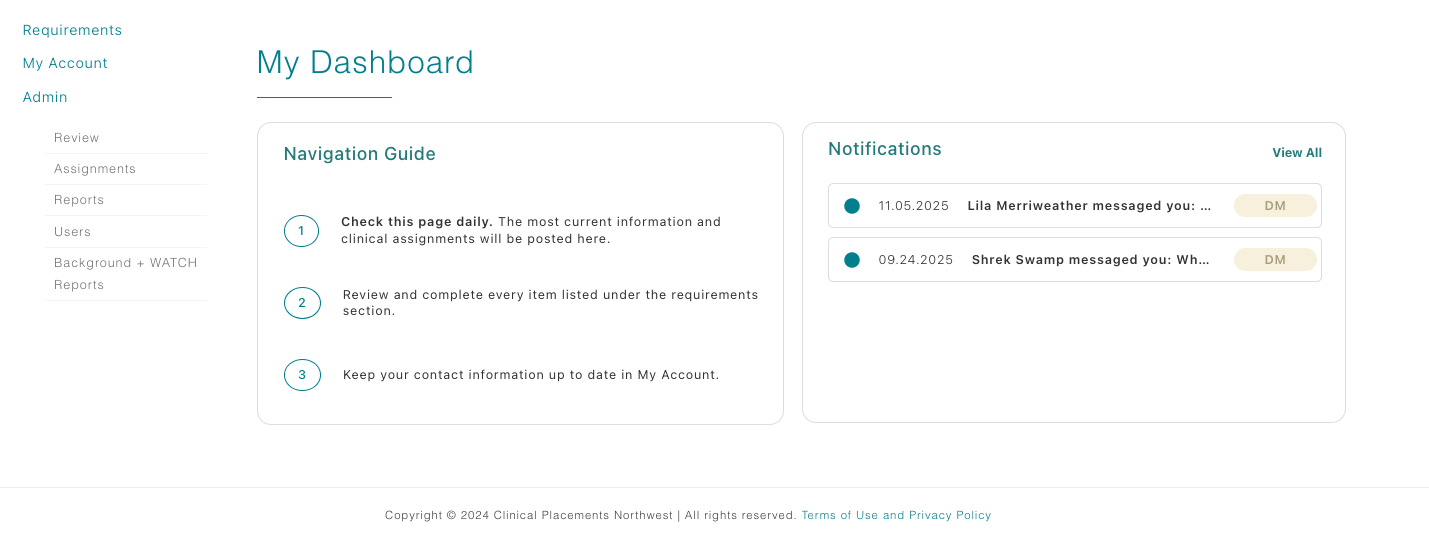
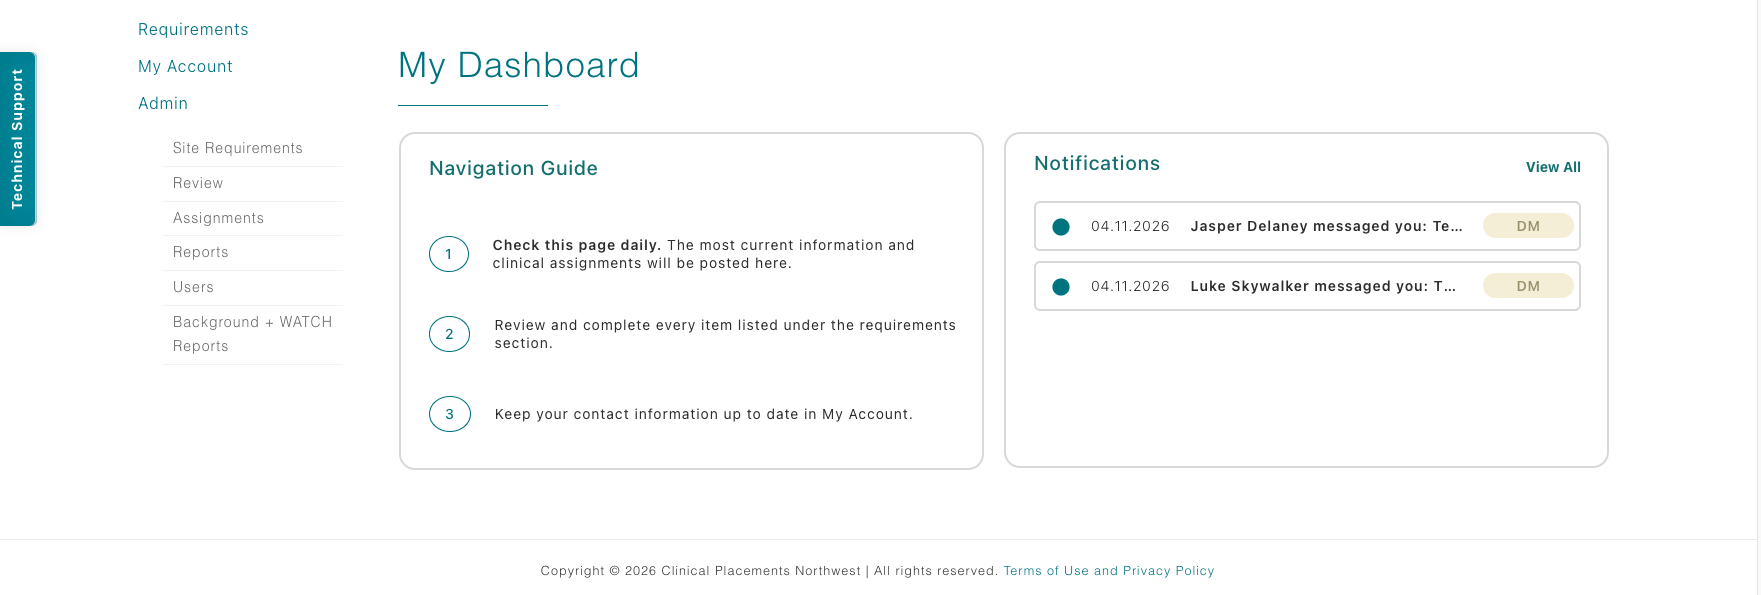
Add site requirements to education dashboard

diff --git a/views/education-views/education-articles/educational-dashboard.html b/views/education-views/education-articles/educational-dashboard.html
@@ -164,6 +164,16 @@
             </p>
             <ul class="text-muted ps-3 mb-0">
               <li>
+                <strong>Site Requirements</strong> – Access important site
+                information, documents, and links carried over from the legacy
+                site. This page is available for Educational Coordinators in
+                case there is site-specific information they need to review.
+                Some student requirements still appear there from the legacy
+                site, but those are not relevant on the beta site and will be
+                updated in the future to show only education-specific
+                healthcare facility information.
+              </li>
+              <li>
                 <strong>Review</strong> – Approve, reject, or conditionally
                 approve student requirements.
               </li>
